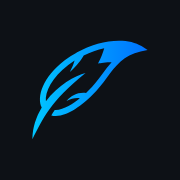
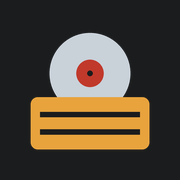
Call the fork cratedig wherever a user sees its name
slskd's licence asks a modified version to adopt a name of its own and to
replace every user-facing "slskd" -- the name, logos, ASCII art, startup
output, documentation and support links -- with it (Additional Terms 4a/4b).
The fork had kept slskd's on every surface, so anyone using it had no way to
tell it from the original, and its bug reports were being directed to
upstream's tracker.

What changes is only what a user reads: the page title and installed app
name, the login page's wordmark and the icons (slskd's logo is replaced, not
recoloured), the version modal, the offline page, notification and mail
titles, the startup box, and the issue links, which now point at this fork.
README.md is the fork's own now rather than upstream's with a notice on top,
and the docs say they are slskd's as inherited.

What does not change is anything a configuration depends on: namespaces,
configuration keys, SLSKD_* variables, slskd.yml, the application directory,
localStorage keys and API paths keep slskd's names, as the terms allow for
names not visible in normal use. An existing setup carries over untouched.
The required notice itself still names slskd, since that is what it is about.

diff --git a/src/web/public/pwa/offline.template.html b/src/web/public/pwa/offline.template.html
@@ -21,7 +21,7 @@
         <meta charset="utf-8" />
         <meta name="viewport" content="width=device-width, initial-scale=1, viewport-fit=cover" />
         <meta name="theme-color" content="#1b1c1d" />
-        <title>slskd</title>
+        <title>cratedig</title>
         <style>
             html {
                 background: #0d1116;
@@ -96,11 +96,11 @@
                 <path fill="url(#g)" d="M464,58.2c-24.5-14.9-57.5-22.8-95.5-22.8c-58.3,0-122.5,18.4-180.2,50.4l-0.4-0.2c0,0-0.1,0.3-0.1,0.5c-17.5,9.7-34.4,20.5-50.3,32.6C43.8,190,17.6,274.6,39.7,319.8C15.5,361.1,0.6,403.9,0,454.6C46.5,365.9,74.5,294,226.1,173c-43.3,9.3-118.2,53.3-168.6,120.2c-4.8-39.1,26.1-102.2,95-154.6c8.7-6.6,17.8-12.8,27-18.7c-7.2,22.5-4.9,16.9-19.9,48.4c22.2-21,36.8-33.9,58.7-69.9c28.4-14,58-24.4,87.3-30.7c-4.9,16.1-14.1,43.3-26.6,64.9c0,0,31.7-6.8,57.9-5.3c-14.3,15.8-27.2,32.9-40.3,50.4c-17.9,23.9-36.4,48.7-60.1,71.7c-2.9,2.8-5.6,5.3-8.3,7.9c-36.4-3.5-60.5,10.1-83,34.2c17.8-8.3,41.6-15.1,56.6-11c-27.6,22.5-71,52.1-106.7,49.7c-6.8,10.3-7.2,10.6-14.6,23.1c57.9,14.4,130.6-44.4,173.3-86c25.1-24.4,44.2-49.9,62.7-74.6c38-50.9,70.9-94.8,143.8-111.5l29.7-6.8L464,58.2z" />
             </svg>
 
-            <h1 class="unreachable">Can't reach slskd</h1>
+            <h1 class="unreachable">Can't reach cratedig</h1>
             <p class="unreachable">{{message}}</p>
 
-            <h1 class="gateway">slskd isn't responding</h1>
-            <p class="gateway">The server answered<span id="status"></span>, but slskd behind it did not. It may be starting up, restarting or stopped.</p>
+            <h1 class="gateway">cratedig isn't responding</h1>
+            <p class="gateway">The server answered<span id="status"></span>, but cratedig behind it did not. It may be starting up, restarting or stopped.</p>
 
             <button type="button" id="retry">Try again</button>
         </main>

diff --git a/src/web/src/components/Shared/Logo.jsx b/src/web/src/components/Shared/Logo.jsx
@@ -1,16 +1,10 @@
+// cratedig's wordmark for the login page. This is a modified version of slskd,
+// so slskd's own block-letter logo is not reproduced (LICENSE, Additional Terms
+// 3a and 4b). Generated with figlet ('small' and 'standard'); kept as JSON
+// string literals so the backslashes and backticks in it need no escaping.
 const Logo = [
-  `
-      ▄▄▄▄     ▄▄▄▄     ▄▄▄▄
-▄▄▄▄▄▄█  █▄▄▄▄▄█  █▄▄▄▄▄█  █
-█__ --█  █__ --█    ◄█  -  █
-█▄▄▄▄▄█▄▄█▄▄▄▄▄█▄▄█▄▄█▄▄▄▄▄█
-`,
-  `
-        ▄▄▄▄         ▄▄▄▄       ▄▄▄▄
-▄▄▄▄▄▄▄ █  █ ▄▄▄▄▄▄▄ █  █▄▄▄ ▄▄▄█  █
-█__ --█ █  █ █__ --█ █    ◄█ █  -  █
-█▄▄▄▄▄█ █▄▄█ █▄▄▄▄▄█ █▄▄█▄▄█ █▄▄▄▄▄█
-`,
+  "\n             _          _ _      \n __ _ _ __ _| |_ ___ __| (_)__ _ \n/ _| '_/ _` |  _/ -_) _` | / _` |\n\\__|_| \\__,_|\\__\\___\\__,_|_\\__, |\n                           |___/\n",
+  "\n                _           _ _       \n  ___ _ __ __ _| |_ ___  __| (_) __ _ \n / __| '__/ _` | __/ _ \\/ _` | |/ _` |\n| (__| | | (_| | ||  __/ (_| | | (_| |\n \\___|_|  \\__,_|\\__\\___|\\__,_|_|\\__, |\n                                |___/\n",
 ];
 
 export default Logo;

diff --git a/src/web/src/components/AppFooter.jsx b/src/web/src/components/AppFooter.jsx
@@ -64,7 +64,7 @@ const VersionModal = ({ onClose, version }) => (
         className="footer-logo"
         src={`${urlBase}/favicon.ico`}
       />{' '}
-      slskd, modified
+      cratedig
     </Modal.Header>
     <Modal.Content>
       {/* the notice the licence asks of a modified version (Additional Terms
@@ -109,11 +109,11 @@ const VersionModal = ({ onClose, version }) => (
               {/* this version's source, which is what the AGPL obliges us to
                   offer; upstream's is where it comes from, not where it is */}
               <a
-                href="https://github.com/deviationist/slskd"
+                href="https://github.com/deviationist/cratedig"
                 rel="noreferrer"
                 target="_blank"
               >
-                github.com/deviationist/slskd
+                github.com/deviationist/cratedig
               </a>
             </Table.Cell>
           </Table.Row>
@@ -212,10 +212,7 @@ const AppFooter = ({
           as="button"
           className="footer-about"
           onClick={() => setShowingVersion(true)}
-          title={[
-            current ? `slskd ${current}, modified` : 'slskd, modified',
-            build,
-          ]
+          title={[current ? `cratedig ${current}` : 'cratedig', build]
             .filter(Boolean)
             .join(', ')}
           type="button"

diff --git a/src/web/public/index.html b/src/web/public/index.html
@@ -3,14 +3,14 @@
     <head>
         <meta charset="utf-8" />
         <meta name="viewport" content="width=device-width, initial-scale=1, maximum-scale=1, user-scalable=no, viewport-fit=cover" />
-        <title>slskd</title>
+        <title>cratedig</title>
         <link rel="shortcut icon" href="./favicon.ico" />
         <link rel="manifest" href="./pwa/manifest.webmanifest" crossorigin="use-credentials" />
         <link rel="apple-touch-icon" href="./pwa/apple-touch-icon.png" />
         <meta name="theme-color" content="#1b1c1d" />
         <meta name="mobile-web-app-capable" content="yes" />
         <meta name="apple-mobile-web-app-capable" content="yes" />
-        <meta name="apple-mobile-web-app-title" content="slskd" />
+        <meta name="apple-mobile-web-app-title" content="cratedig" />
         <meta name="apple-mobile-web-app-status-bar-style" content="black" />
     </head>
     <body>

diff --git a/src/web/src/components/App.jsx b/src/web/src/components/App.jsx
@@ -135,7 +135,7 @@ const FIRST_PUSH_TIMEOUT = 3_000;
  */
 const UpdatePrompt = ({ closeToast }) => (
   <div className="client-update-prompt">
-    <div>A new version of slskd has been deployed.</div>
+    <div>A new version of cratedig has been deployed.</div>
     <div className="client-update-prompt-actions">
       <Button
         compact
@@ -564,7 +564,7 @@ class App extends Component {
         <ErrorSegment
           caption={
             <>
-              <span>Lost connection to slskd</span>
+              <span>Lost connection to cratedig</span>
               <br />
               <span>
                 {retriesExhausted ? 'Refresh to reconnect' : 'Retrying...'}

diff --git a/src/web/src/components/Rooms/Rooms.jsx b/src/web/src/components/Rooms/Rooms.jsx
@@ -370,7 +370,7 @@ class Rooms extends Component {
                 {simulated && (
                   <span
                     className="room-simulated"
-                    title="Made by a simulated message: it exists only in slskd, and nothing said here leaves it"
+                    title="Made by a simulated message: it exists only in cratedig, and nothing said here leaves it"
                   >
                     test room
                   </span>

diff --git a/src/web/src/lib/transfers.js b/src/web/src/lib/transfers.js
@@ -377,7 +377,7 @@ export const describeUnretrievable = ({ file, gone = false }) => {
   }
 
   if (!file.localFilename) {
-    return 'This download finished before slskd recorded where it saved files, so it cannot be fetched';
+    return 'This download finished before cratedig recorded where it saved files, so it cannot be fetched';
   }
 
   return undefined;

diff --git a/src/slskd/Program.cs b/src/slskd/Program.cs
@@ -6,8 +6,8 @@
 //   ┍━━━━━━━━━━━━━━━━━━━━━━━━━━━━━━━━━━━━━━━━━━━━━━━━━━━━━ ━━━━ ━  ━┉   ┉     ┉
 //   │ Copyright (c) JP Dillingham.
 //   │ Copyright (c) 2026 Robert S.
-//   │ Modified: registers this fork's services; modified-version startup notice; its own network
-//   │   version identifier
+//   │ Modified: registers this fork's services; modified-version startup notice; its own name,
+//   │   issue tracker and network version identifier
 //   │
 //   │ This program is free software: you can redistribute it and/or modify
 //   │ it under the terms of the GNU Affero General Public License as published
@@ -128,7 +128,7 @@ namespace slskd
         /// <summary>
         ///     The url to the issues/support site.
         /// </summary>
-        public static readonly string IssuesUrl = "https://github.com/slskd/slskd/issues";
+        public static readonly string IssuesUrl = "https://github.com/deviationist/cratedig/issues";
 
         /// <summary>
         ///     The global prefix for environment variables.
@@ -1863,7 +1863,7 @@ services.AddSingleton<slskd.Player.AnalysisProvider>();
                 // notices below it are upstream's and stay as they are (2a).
                 var banner = @$"
   ┌──────────────────────────────────────────────────────┐
-  │  slskd, modified -- the deviationist fork            │
+  │  cratedig -- a modified version of slskd             │
   └──────────────────────────────────────────────────────┘
 ┍━━━━━━━━━━━━━━━━━━━━━━━━━━━━━━━━━━━━━━━━━━━━━━━━━━━━━ ━━━━ ━  ━┉   ┉     ┉
 │ This is a modified version of slskd.  It is not maintained by,
@@ -1878,7 +1878,7 @@ services.AddSingleton<slskd.Player.AnalysisProvider>();
 │ of the AGPLv3.  See the LICENSE file in the root directory of this
 │ project for the complete terms and conditions.
 │
-│ Source of this version: https://github.com/deviationist/slskd
+│ Source of this version: https://github.com/deviationist/cratedig
 │ Based on slskd:         https://github.com/slskd/slskd
 │
 ├╌╌╌╌╌╌╌╌╌╌╌╌╌╌╌╌╌╌╌╌╌╌╌╌╌╌╌╌╌╌╌╌╌╌╌╌╌╌╌╌╌╌╌ ╌ ╌╌╌╌ ╌

diff --git a/src/slskd/Shares/SqliteShareRepository.cs b/src/slskd/Shares/SqliteShareRepository.cs
@@ -5,6 +5,8 @@
 //     █▄▄▄▄▄█▄▄█▄▄▄▄▄█▄▄█▄▄█▄▄▄▄▄█
 //   ┍━━━━━━━━━━━━━━━━━━━━━━━━━━━━━━━━━━━━━━━━━━━━━━━━━━━━━ ━━━━ ━  ━┉   ┉     ┉
 //   │ Copyright (c) JP Dillingham.
+//   │ Copyright (c) 2026 Robert S.
+//   │ Modified: reports a corrupted share database to this fork's issue tracker
 //   │
 //   │ This program is free software: you can redistribute it and/or modify
 //   │ it under the terms of the GNU Affero General Public License as published
@@ -26,6 +28,7 @@
 //   │
 //   ├╌╌╌╌╌╌╌╌╌╌╌╌╌╌╌╌╌╌╌╌╌╌╌╌╌╌╌╌╌╌╌╌╌╌╌╌╌╌╌╌╌╌╌ ╌ ╌╌╌╌ ╌
 //   │ SPDX-FileCopyrightText: JP Dillingham
+//   │ SPDX-FileCopyrightText: 2026 Robert S.
 //   │ SPDX-License-Identifier: AGPL-3.0-only
 //   ╰───────────────────────────────────────────╶──── ─ ─── ─  ── ──┈  ┈
 // </copyright>
@@ -777,7 +780,7 @@ namespace slskd.Shares
 
             if (!reader.Read() || reader.GetInt32(0) != 1)
             {
-                var msg = "The internal share database has been corrupted or lost, and the application cannot continue to run. Please report this in a GitHub issue here: https://github.com/slskd/slskd/issues";
+                var msg = "The internal share database has been corrupted or lost, and the application cannot continue to run. Please report this in a GitHub issue here: https://github.com/deviationist/cratedig/issues";
                 Log.Fatal(msg);
                 Environment.Exit(1);
                 throw new DataMisalignedException(msg);

diff --git a/src/slskd/Integrations/Notifications/ProblemNotifier.cs b/src/slskd/Integrations/Notifications/ProblemNotifier.cs
@@ -113,7 +113,7 @@ public class ProblemNotifier
                     connection = new Notification
                     {
                         Event = NotificationEvent.ConnectionLost,
-                        Title = "slskd lost its Soulseek connection",
+                        Title = "cratedig lost its Soulseek connection",
                         Text = $"Not logged in for {(int)(now - DownSince.Value).TotalMinutes} minutes, and still trying to reconnect.",
                         Priority = NotificationPriority.High,
                     };
@@ -126,7 +126,7 @@ public class ProblemNotifier
                     connection = new Notification
                     {
                         Event = NotificationEvent.ConnectionLost,
-                        Title = "slskd is back on Soulseek",
+                        Title = "cratedig is back on Soulseek",
                         Text = $"Logged in again after {(int)(now - DownSince.Value).TotalMinutes} minutes.",
                         Priority = NotificationPriority.Low,
                     };
@@ -141,7 +141,7 @@ public class ProblemNotifier
                 scan = new Notification
                 {
                     Event = NotificationEvent.ShareScanFailed,
-                    Title = "slskd's share scan failed",
+                    Title = "cratedig's share scan failed",
                     Text = "The shares could not be scanned. Peers see what was shared before; the log says why.",
                     Priority = NotificationPriority.High,
                 };

diff --git a/src/slskd/Core/Options.cs b/src/slskd/Core/Options.cs
@@ -2699,7 +2699,7 @@ namespace slskd
             /// </remarks>
             [Argument(default, "offline-message")]
             [EnvironmentVariable("OFFLINE_MESSAGE")]
-            [Description("message the installed web app shows when slskd cannot be reached; blank is generic")]
+            [Description("message the installed web app shows when cratedig cannot be reached; blank is generic")]
             [StringLength(2000)]
             public string OfflineMessage { get; init; }
 
@@ -3566,7 +3566,7 @@ namespace slskd
                 [Argument(default, "pushbullet-prefix")]
                 [EnvironmentVariable("PUSHBULLET_NOTIFICATION_PREFIX")]
                 [Description("prefix for Pushbullet notification titles")]
-                public string NotificationPrefix { get; init; } = "From slskd:";
+                public string NotificationPrefix { get; init; } = "From cratedig:";
 
                 /// <summary>
                 ///     Gets a value indicating whether a Pushbullet notification should be sent when a private message is received.

diff --git a/tests/slskd.Tests.Unit/Search/Watches/NotificationTests.cs b/tests/slskd.Tests.Unit/Search/Watches/NotificationTests.cs
@@ -56,8 +56,8 @@ public class NotificationTests
     [Fact]
     public void The_Subject_Counts_The_Files_And_Says_Result_Once_For_One()
     {
-        Assert.Equal("slskd: 1 new result for 'aphex'", Notification.SubjectFor("aphex", 1));
-        Assert.Equal("slskd: 4 new results for 'aphex'", Notification.SubjectFor("aphex", 4));
+        Assert.Equal("cratedig: 1 new result for 'aphex'", Notification.SubjectFor("aphex", 1));
+        Assert.Equal("cratedig: 4 new results for 'aphex'", Notification.SubjectFor("aphex", 4));
     }
 
     [Fact]
@@ -242,7 +242,7 @@ public class NotificationTests
         Assert.Contains("A search this broad", composed.Html);
 
         // the count in the subject is what the run found, not what it listed
-        Assert.Equal("slskd: 10 new results for 'aphex'", composed.Subject);
+        Assert.Equal("cratedig: 10 new results for 'aphex'", composed.Subject);
     }
 
     [Fact]
